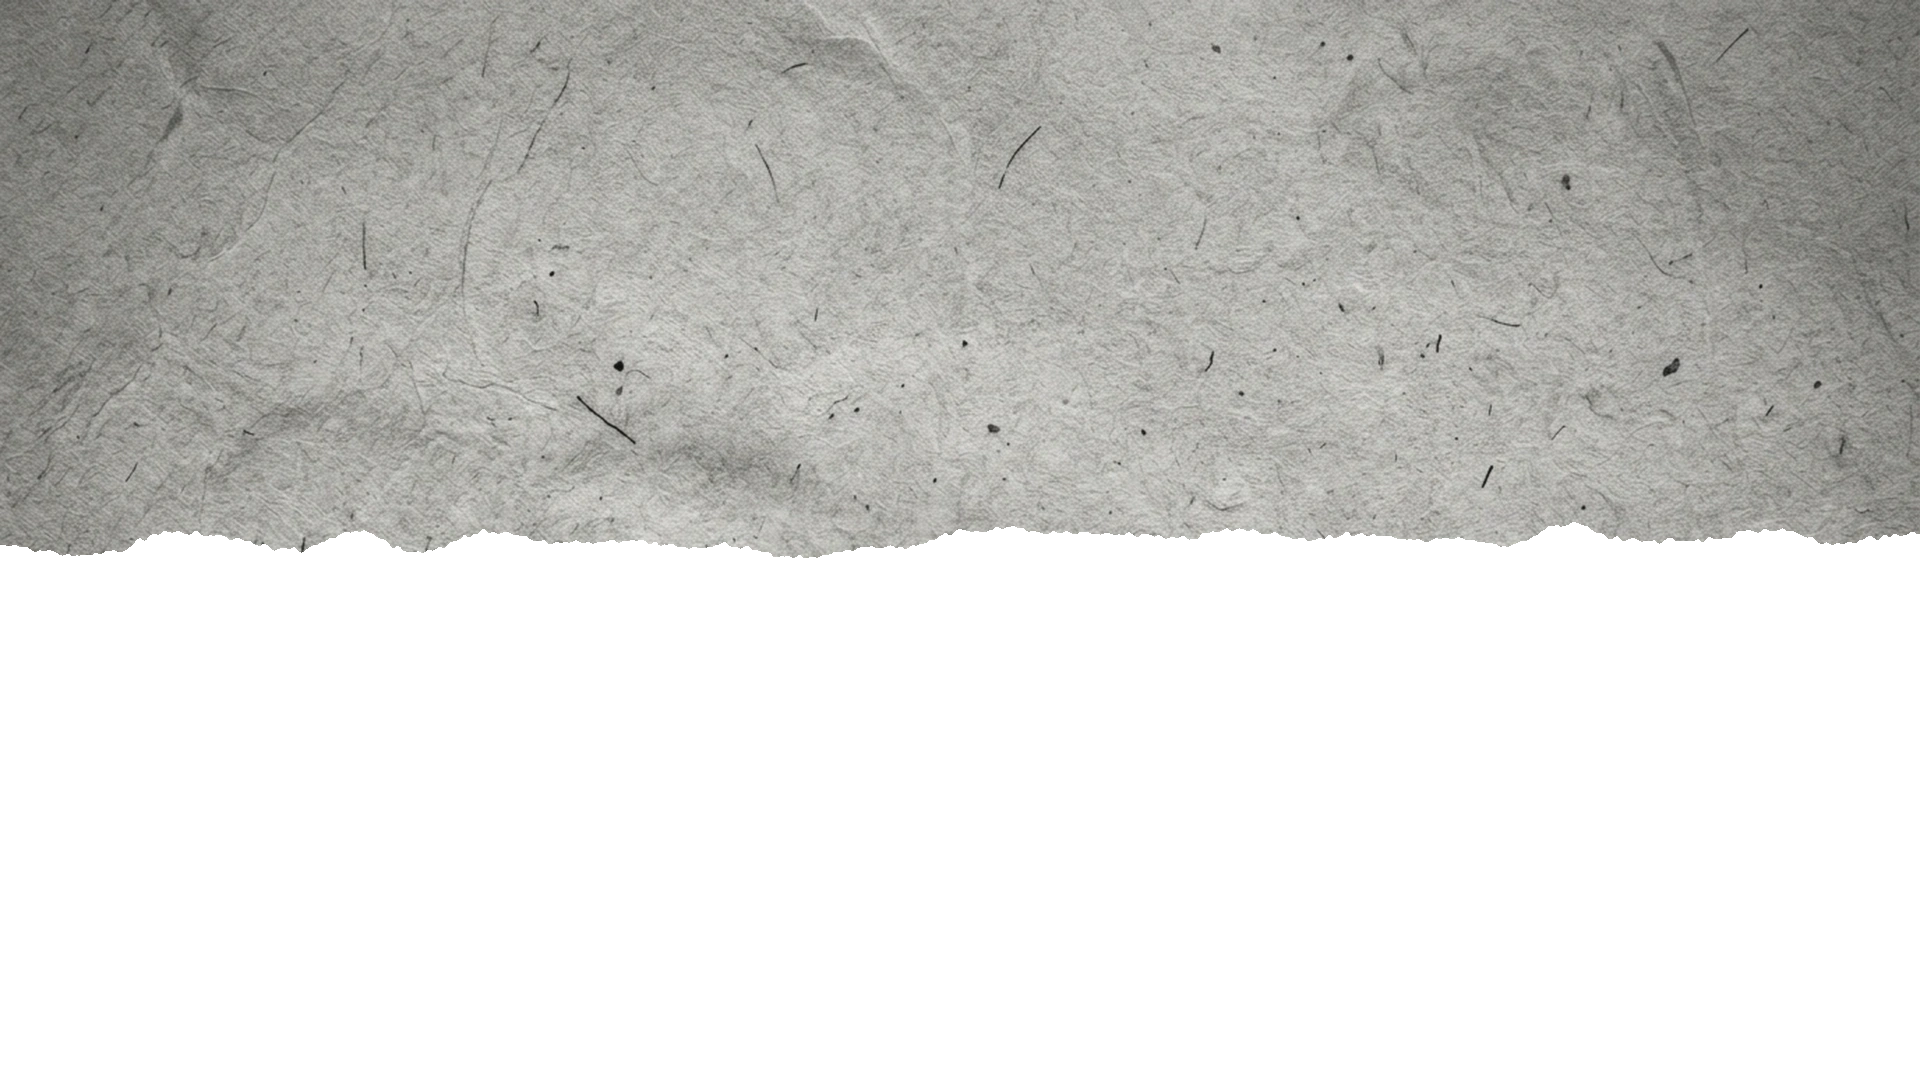
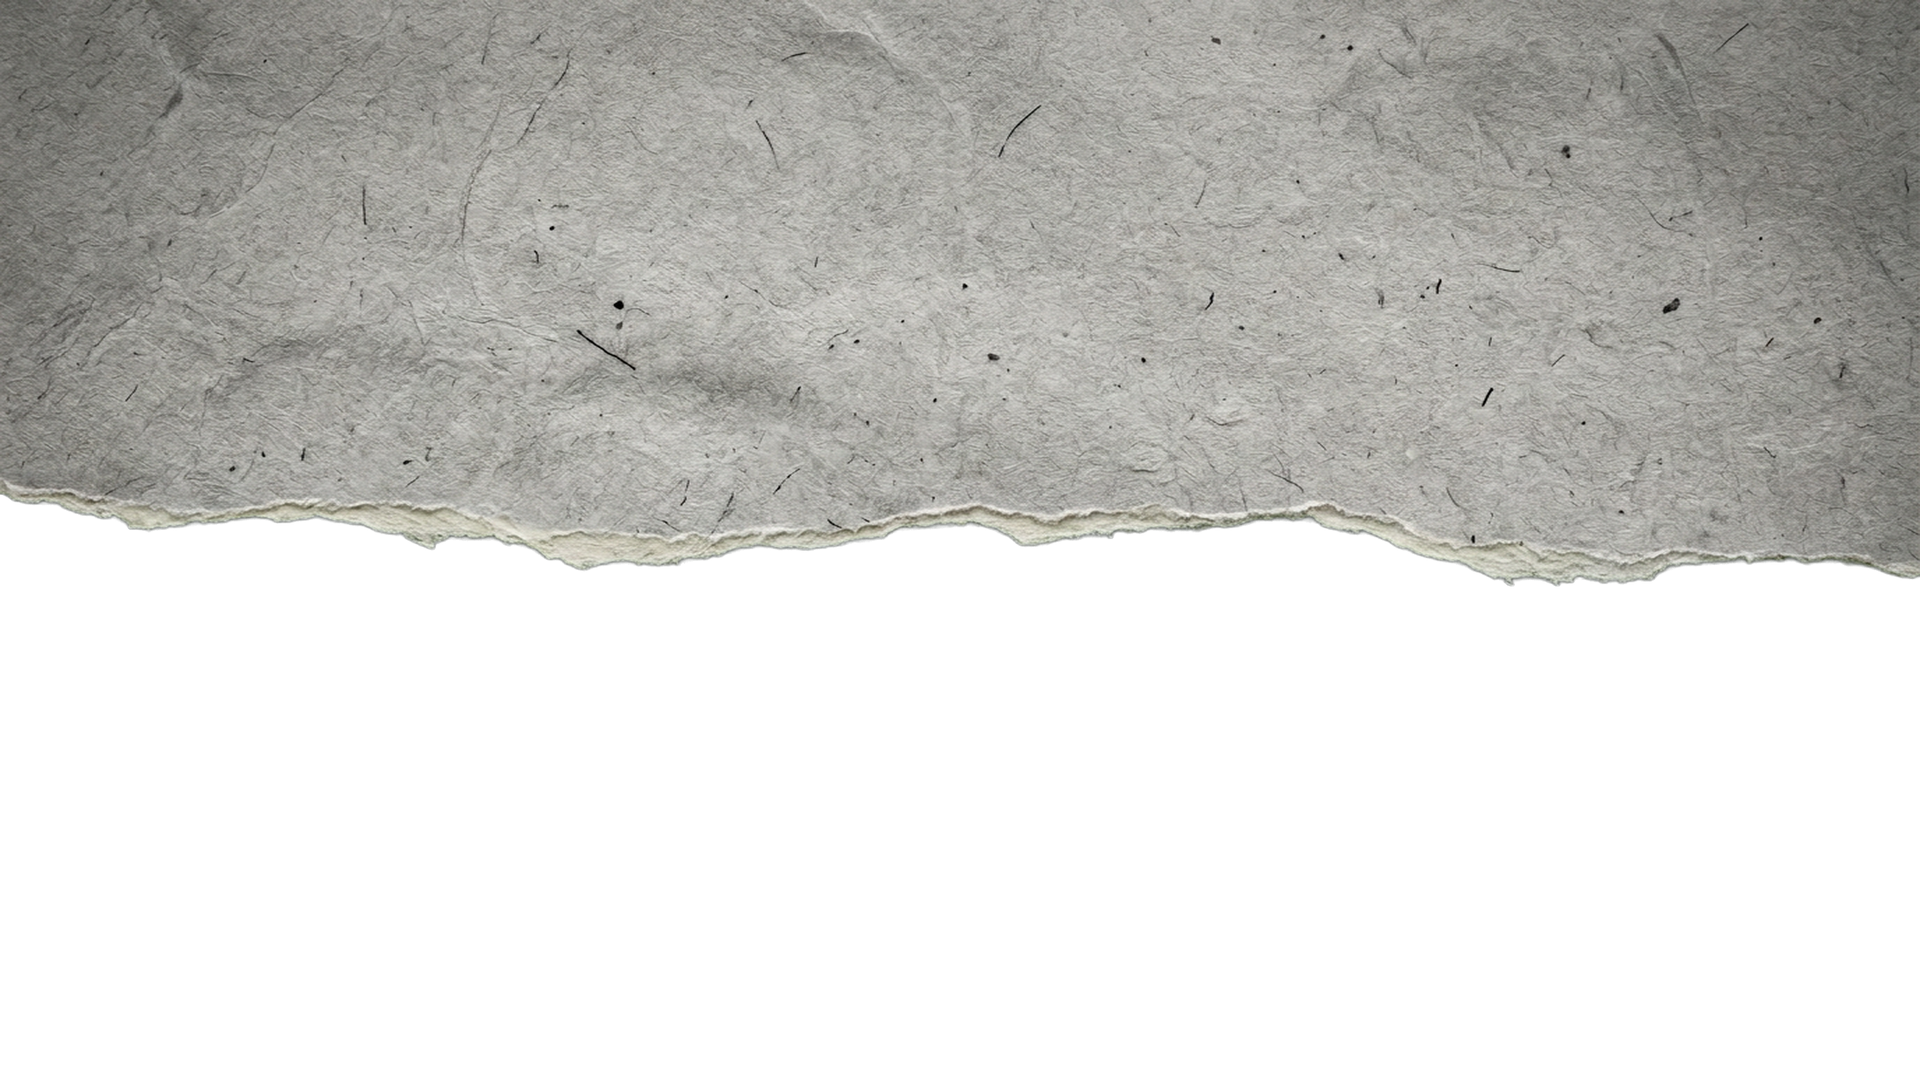
shot6: match reference torn fibers, fine wall grid and large typography

Changed region(s): [[0.0, 0.0, 1.0, 0.55]]

diff --git a/scripts/build_tear6_wall.py b/scripts/build_tear6_wall.py
@@ -1,9 +1,7 @@
 #!/usr/bin/env python3
 """Shot 06 corrected layer model: text on the WALL, gray paper cover tears away."""
 from pathlib import Path
-import numpy as np
-from PIL import Image, ImageDraw, ImageFont, ImageEnhance, ImageFilter
-from scipy import ndimage
+from PIL import Image, ImageDraw, ImageFont, ImageEnhance, ImageFilter, ImageOps
 
 ROOT = Path(__file__).resolve().parents[1]
 PUB = ROOT / 'public'
@@ -15,21 +13,21 @@ CARDS = [
     {
         'out': 'tear6-wall-1.webp', 'source': 'Wikinews', 'date': 'DECEMBER 27, 2005',
         'credit': 'Wikinews · CC BY 2.5',
-        'lines': [[("Japan's ", False), ('population declines', True)]], 'fs': 78,
+        'lines': [[("Japan's ", False), ('population', True)], [('declines', True)]], 'fs': 124,
         'body1': "Japan's population declined by 19,000 in 2005, according to the government census.",
         'body2': 'It was the first recorded decline since 1899. The birth rate stood at 1.29 children per woman.',
     },
     {
         'out': 'tear6-wall-2.webp', 'source': 'Wikinews', 'date': 'OCTOBER 27, 2008',
         'credit': 'Wikinews · CC BY 2.5',
-        'lines': [[('Asian stock markets slide;', False)], [("Nikkei at lowest level since '82", True)]], 'fs': 64,
+        'lines': [[('Asian stock markets slide;', True)], [('Nikkei at lowest level', False)], [("since '82", False)]], 'fs': 94,
         'body1': "Japan's Nikkei stock index fell to lows not seen since October 1982.",
         'body2': 'The Nikkei closed down 6.4 percent, or 486.18 points, at 7,162.90.',
     },
     {
         'out': 'tear6-wall-3.webp', 'source': 'Global Voices', 'date': 'MAY 31, 2009',
         'credit': 'Tomomi Sasaki · Global Voices · CC BY 3.0',
-        'lines': [[('Go Farm, Young Man! –', False)], [('How Farming in Japan is Changing', True)]], 'fs': 63,
+        'lines': [[('Go Farm, Young Man!', True), (' –', False)], [('How Farming in Japan', False)], [('is Changing', False)]], 'fs': 104,
         'body1': "Japan's agricultural workforce is rapidly aging, with too few successors.",
         'body2': 'The government is looking at agricultural employment as one answer to rising unemployment.',
     },
@@ -66,50 +64,48 @@ def wrap(draw, text, fnt, width):
 
 
 def build_walls():
+    # Open-book reference match: fine dotted/wrinkled wall, large left-aligned
+    # source + headline block, date below, and two article columns at lower right.
     blank = Image.open(PUB / 'tear6-wall-blank.webp').convert('RGB').resize((W, H), Image.Resampling.LANCZOS)
     for card in CARDS:
         im = blank.copy()
         d = ImageDraw.Draw(im)
-        d.text((250, 190), card['source'], font=font(FONT_B, 59), fill=(22, 22, 22, 255))
-        y = 315
+        d.text((190, 275), card['source'], font=font(FONT_B, 104), fill=(22, 22, 22, 255))
+        y = 435
         hf = font(FONT_B, card['fs'])
         for parts in card['lines']:
-            segments(d, (250, y), parts, hf)
-            y += int(card['fs'] * 1.23)
-        d.text((250, y + 18), card['date'], font=font(FONT_S, 30), fill=(52, 52, 52, 255))
-        d.text((250, 950), card['credit'], font=font(FONT_S, 18), fill=(68, 68, 68, 255))
-        bf = font(FONT_S, 15)
+            segments(d, (190, y), parts, hf)
+            y += int(card['fs'] * 1.02)
+        d.text((190, y + 12), card['date'], font=font(FONT_S, 38), fill=(52, 52, 52, 255))
+        d.text((190, 990), card['credit'], font=font(FONT_S, 18), fill=(68, 68, 68, 255))
+        bf = font(FONT_S, 20)
         for i, key in enumerate(('body1', 'body2')):
-            x = 1110 + i * 285
+            x = 1110 + i * 365
             yy = 790
-            for line in wrap(d, card[key], bf, 255)[:7]:
+            for line in wrap(d, card[key], bf, 320)[:7]:
                 d.text((x, yy), line, font=bf, fill=(65, 65, 65, 220))
-                yy += 22
+                yy += 28
         im.save(PUB / card['out'], quality=95, method=6)
         print('wall', card['out'], flush=True)
 
 
 def build_cover():
-    # The generated gray fibrous image is the PAPER that hides the wall.
+    # Image-asset workflow only: no CSS polygons or programmatic torn-edge masks.
+    # The keyed, generated torn sheet is resized as an image and flipped for the
+    # lower half, preserving its real fibers, rim and contact shadow.
     cover = Image.open(PUB / 'tear6-background.webp').convert('RGB').resize((W, H), Image.Resampling.LANCZOS)
     cover = ImageEnhance.Brightness(cover).enhance(1.04)
     cover = ImageEnhance.Contrast(cover).enhance(0.9).filter(ImageFilter.GaussianBlur(0.45))
     cover.save(PUB / 'tear6-cover-full.webp', quality=95, method=6)
-    rng = np.random.default_rng(601)
-    coarse = ndimage.gaussian_filter1d(rng.normal(0, 1, W), 28)
-    coarse /= max(np.max(np.abs(coarse)), 1e-6)
-    fine = ndimage.gaussian_filter1d(rng.normal(0, 1, W), 2.4)
-    fine /= max(np.max(np.abs(fine)), 1e-6)
-    seam = H / 2 + coarse * 18 + fine * 4
-    yy = np.arange(H)[:, None]
-    top_mask = yy < seam[None, :]
-    rgb = np.asarray(cover)
-    alpha = np.full((H, W), 255, dtype=np.uint8)
-    top = Image.fromarray(np.dstack([rgb, np.where(top_mask, alpha, 0).astype(np.uint8)]), 'RGBA')
-    bottom = Image.fromarray(np.dstack([rgb, np.where(~top_mask, alpha, 0).astype(np.uint8)]), 'RGBA')
-    top.save(PUB / 'tear6-cover-top.webp', quality=95, method=6)
-    bottom.save(PUB / 'tear6-cover-bottom.webp', quality=95, method=6)
-    print('cover split', flush=True)
+
+    source = Image.open(PUB / 'tear6-cover-source.webp').convert('RGBA').resize((W, 900), Image.Resampling.LANCZOS)
+    top = Image.new('RGBA', (W, H), (0, 0, 0, 0))
+    top.alpha_composite(source, (0, 0))
+    bottom = Image.new('RGBA', (W, H), (0, 0, 0, 0))
+    bottom.alpha_composite(ImageOps.flip(source), (0, H - 900))
+    top.save(PUB / 'tear6-cover-top.webp', lossless=True, method=6)
+    bottom.save(PUB / 'tear6-cover-bottom.webp', lossless=True, method=6)
+    print('image-asset torn cover built', flush=True)
 
 
 if __name__ == '__main__':
